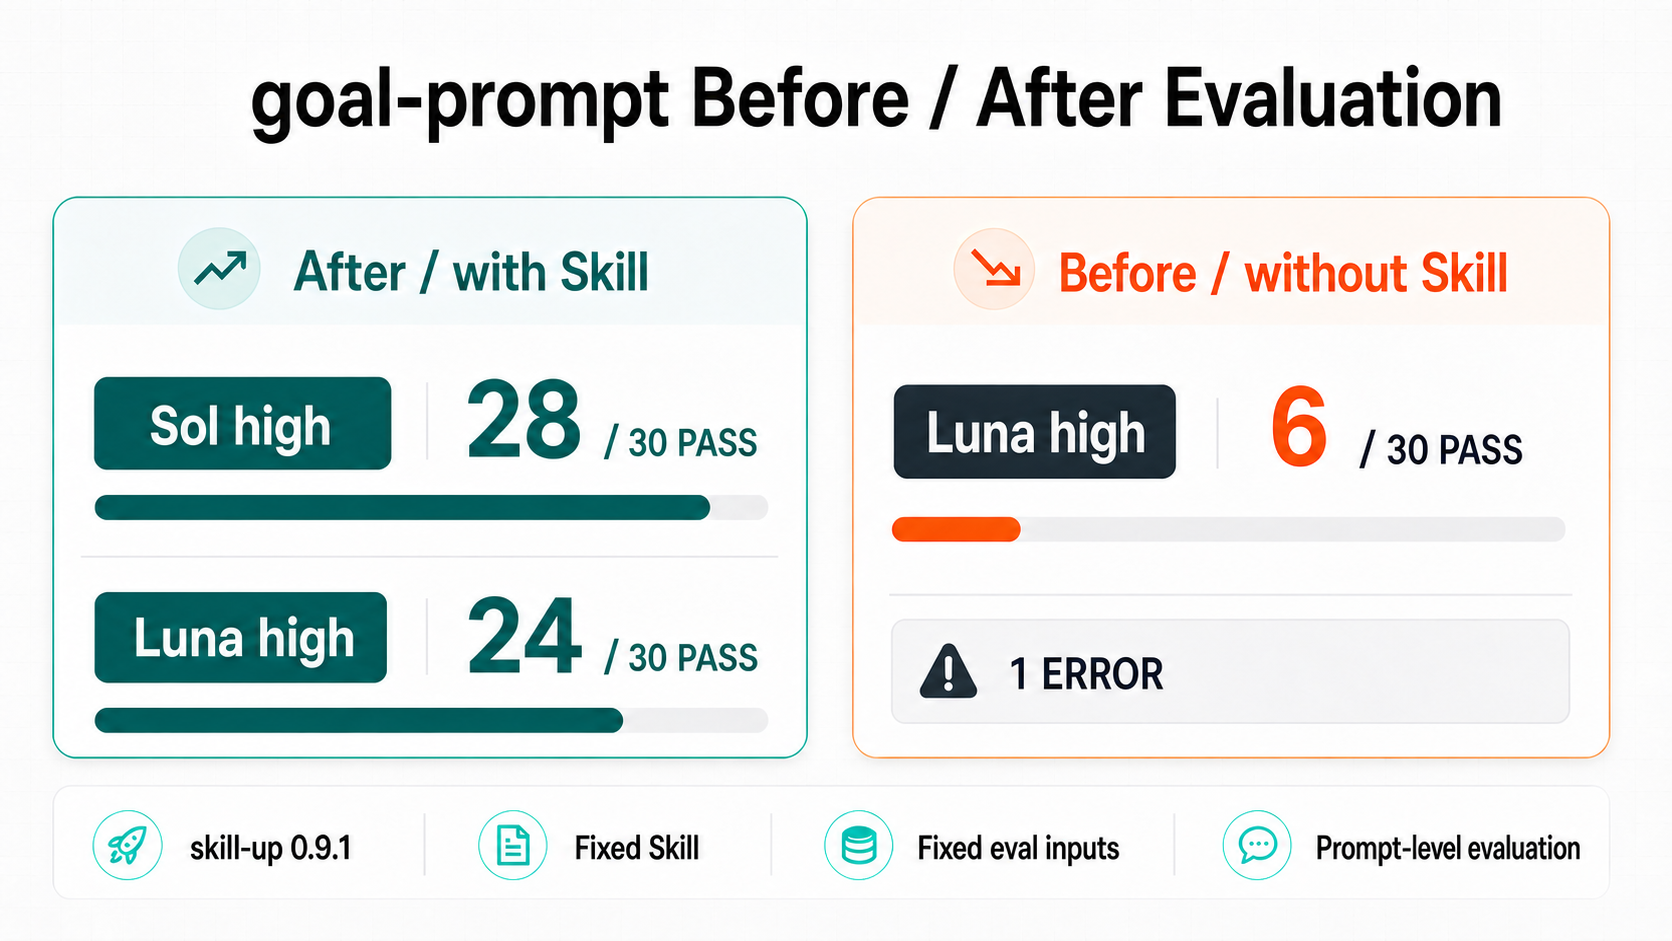
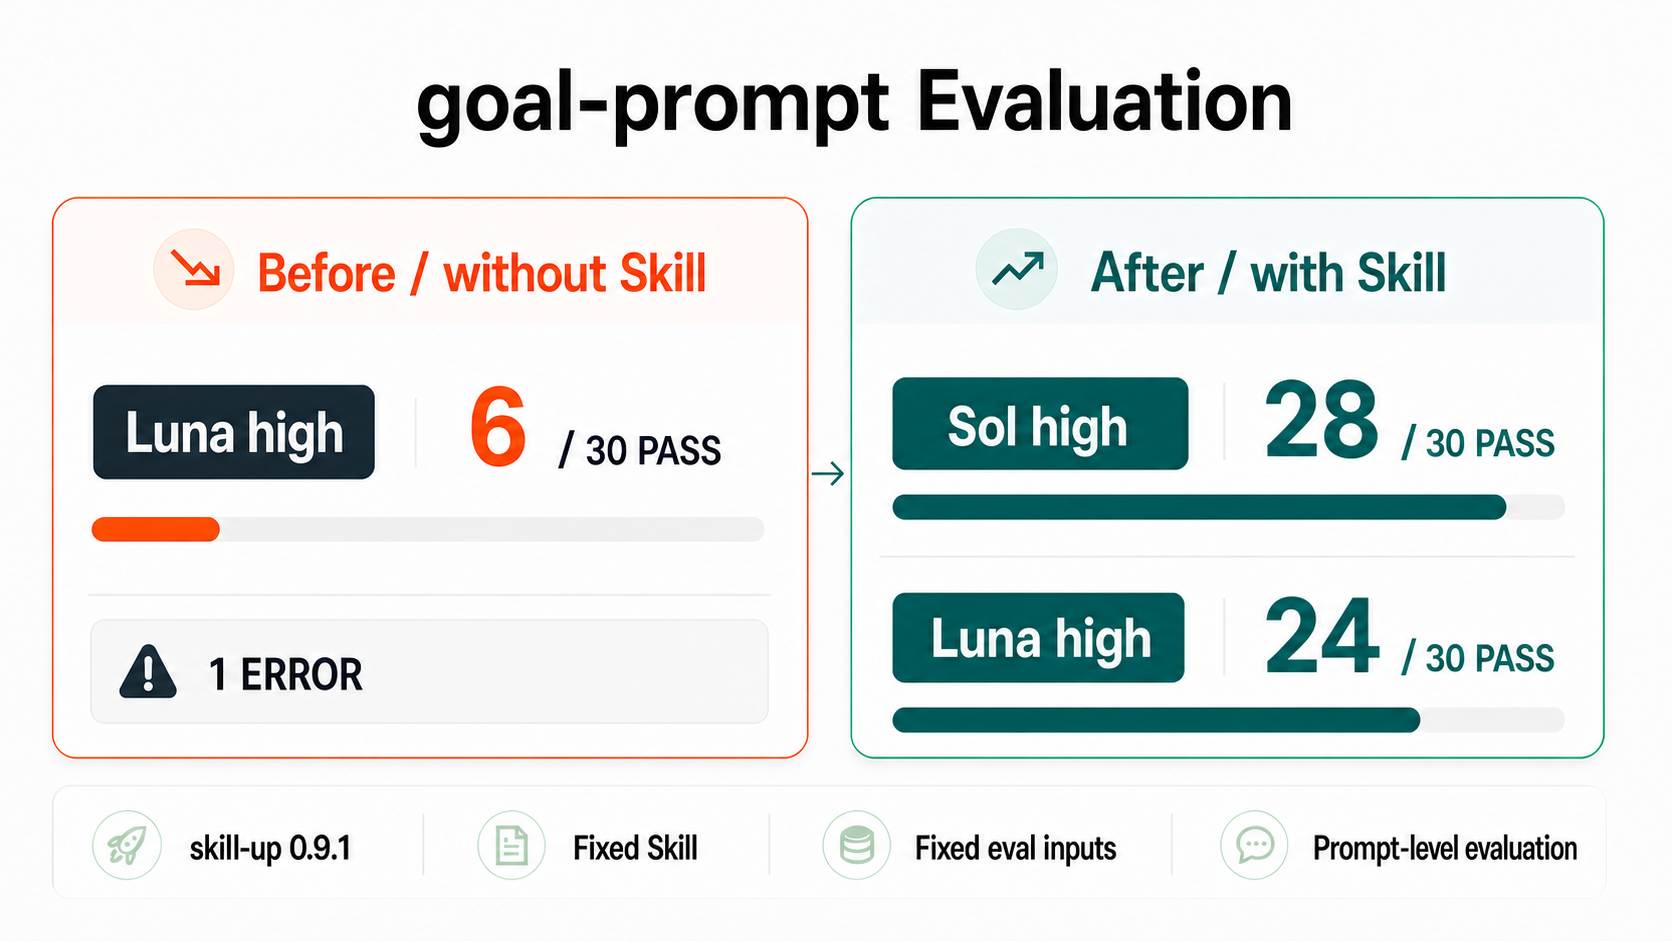
docs(readme): improve quick start and diagrams
- move installation and usage into a bilingual quick start
- keep Mermaid diagrams in portable syntax
- align bilingual evaluation graphics with before-to-after reading order

diff --git a/README.md b/README.md
@@ -28,6 +28,43 @@ Writing `/goal` by hand makes prompt size hard to judge:
 | Depend on chat history | Lessons disappear with the conversation, so the next run repeats the same mistakes | Reflect briefly after each loop and keep only high-value, reusable lessons |
 | Tie the workflow to one agent | Commands, paths, or instructions break when moving to another agent | Keep the instructions portable and adapt only the platform entrypoint |
 
+## Quick Start
+
+Install and choose a target:
+
+```bash
+npx skills add imbajin/goal-prompt
+```
+
+(Optional) Install globally for Codex and Claude Code:
+
+```bash
+npx skills add imbajin/goal-prompt -g -a codex -a claude-code
+```
+
+To update an existing installation in its original scope:
+
+```bash
+npx skills update goal-prompt
+```
+
+For an installation created with `-g`, run `npx skills update goal-prompt -g -y`.
+
+(Optional) Send this prompt to any Agent:
+
+```text
+Install goal-prompt by following https://github.com/imbajin/goal-prompt#install
+```
+
+Use it directly:
+
+```text
+# Codex / Claude Code
+/goal-prompt help me define a goal for implementing the authentication design in this repository
+```
+
+The agent can select the skill automatically when your request matches, or you can invoke it manually with `/goal-prompt`. Either way, it generates the prompt without executing it.
+
 ## Evaluation
 
 The latest version was evaluated on 30 isolated cases with `skill-up 0.9.1`. The paired run held the inputs and Codex `gpt-5.6-luna` high constant; the baseline also had one timeout ERROR. The final operation-target wording was added afterward and has focused contract coverage, not a new full A/B run.
@@ -49,14 +86,14 @@ goal-prompt aims for both efficiency and quality by keeping only the information
 ```mermaid
 flowchart LR
     A["User intent"] --> B{"Skip investigation or confirmation?"}
-    B -->|"Yes"| F["Keep unknowns visible and form the minimum execution contract"]
-    B -->|"No"| C["Read the repository and existing documents"]
+    B -->|Yes| F["Keep unknowns visible and form the minimum execution contract"]
+    B -->|No| C["Read the repository and existing documents"]
     C --> D["Disposable goal brief"]
     D --> E{"Confirm, revise, or delegate judgment"}
-    E -->|"Revise"| C
-    E -->|"Confirm or delegate"| F
+    E -->|Revise| C
+    E -->|Confirm or delegate| F
     F --> G["Output a verifiable goal prompt"]
-    G -. "Hand off to the execution agent" .-> H["Execute, validate, recover, and review"]
+    G -.->|Hand off to the execution agent| H["Execute, validate, recover, and review"]
 ```
 
 ## How it works
@@ -95,43 +132,6 @@ Create another file only when it has a distinct responsibility:
 - `lessons.md`: evidence-backed lessons worth reusing.
 
 Do not create a file that duplicates `state.md` or an existing document.
-
-## Install
-
-Install and choose a target:
-
-```bash
-npx skills add imbajin/goal-prompt
-```
-
-(Optional) Install globally for Codex and Claude Code:
-
-```bash
-npx skills add imbajin/goal-prompt -g -a codex -a claude-code
-```
-
-To update an existing installation in its original scope:
-
-```bash
-npx skills update goal-prompt
-```
-
-For an installation created with `-g`, run `npx skills update goal-prompt -g -y`.
-
-(Optional) Send this prompt to any Agent:
-
-```text
-Install goal-prompt by following https://github.com/imbajin/goal-prompt#install
-```
-
-## Use
-
-```text
-# Codex / Claude Code
-/goal-prompt help me define a goal for implementing the authentication design in this repository
-```
-
-The agent can select the skill automatically when your request matches, or you can invoke it manually with `/goal-prompt`. Either way, it generates the prompt without executing it.
 
 ## Compatibility
 

diff --git a/docs/README.zh-CN.md b/docs/README.zh-CN.md
@@ -27,6 +27,43 @@
 | 只依赖历史 context  | 踩坑/经验没有沉淀，下一轮重复试错 | 每轮简要反思，只记录高价值 + 可复用的内容 |
 | 写法绑定单一 Agent | 换到其他 Agent 后，调用方式/目录或指令对不上 | 指令/保持通用，只对平台入口做少量适配 |
 
+## 快速开始
+
+最简安装，运行后选择目标 Agent：
+
+```bash
+npx skills add imbajin/goal-prompt
+```
+
+（可选）全局安装到 Codex + Claude Code：
+
+```bash
+npx skills add imbajin/goal-prompt -g -a codex -a claude-code
+```
+
+已安装旧版本时，在原安装范围更新：
+
+```bash
+npx skills update goal-prompt
+```
+
+如果原来使用 `-g` 全局安装，运行 `npx skills update goal-prompt -g -y`
+
+（可选）把下面的 prompt 发给任意 Agent：
+
+```text
+请按照 https://github.com/imbajin/goal-prompt#install 安装 goal-prompt
+```
+
+直接使用：
+
+```text
+# Codex / Claude Code
+/goal-prompt 帮我给当前目录的认证模块定一个任务计划, 参考 XX 设计实现
+```
+
+需求沟通时，Agent 可自动调用这个 skill，你也可以用 `/goal-prompt` 手动调用。无论哪种方式，它只生成 prompt，不会直接执行
+
 ## 实测结果
 
 最新版本使用 `skill-up 0.9.1` 做了 30 个 case 的隔离回归。主对照统一使用 Codex `gpt-5.6-luna` high，同一批输入分别运行 with Skill 和 without Skill。with Skill 通过 24/30，without Skill 通过 6/30，后者另有 1 个超时 ERROR。最终补充的操作目标边界已做定向契约覆盖，但没有重新执行完整 A/B。
@@ -48,14 +85,14 @@
 ```mermaid
 flowchart LR
     A["用户意图"] --> B{"明确跳过调查或确认？"}
-    B -->|"是"| F["保留未知项，形成最小执行契约"]
-    B -->|"否"| C["调查仓库与已有文档"]
+    B -->|是| F["保留未知项，形成最小执行契约"]
+    B -->|否| C["调查仓库与已有文档"]
     C --> D["一次性目标摘要"]
     D --> E{"确认、修改或委托判断"}
-    E -->|"修改"| C
-    E -->|"确认或委托"| F
+    E -->|修改| C
+    E -->|确认或委托| F
     F --> G["输出可验证的 goal prompt"]
-    G -. "交给执行 Agent" .-> H["执行、验证、恢复与复审"]
+    G -.->|交给执行 Agent| H["执行、验证、恢复与复审"]
 ```
 
 ## 工作方式
@@ -94,43 +131,6 @@ flowchart LR
 - `lessons.md`：保存有证据且值得复用的经验
 
 如果新增文件会重复 `state.md` 或已有文档，就不要创建
-
-## 安装
-
-最简安装，运行后选择目标 Agent：
-
-```bash
-npx skills add imbajin/goal-prompt
-```
-
-（可选）全局安装到 Codex + Claude Code：
-
-```bash
-npx skills add imbajin/goal-prompt -g -a codex -a claude-code
-```
-
-已安装旧版本时，在原安装范围更新：
-
-```bash
-npx skills update goal-prompt
-```
-
-如果原来使用 `-g` 全局安装，运行 `npx skills update goal-prompt -g -y`
-
-（可选）把下面的 prompt 发给任意 Agent：
-
-```text
-请按照 https://github.com/imbajin/goal-prompt#install 安装 goal-prompt
-```
-
-## 使用
-
-```text
-# Codex / Claude Code
-/goal-prompt 帮我给当前目录的认证模块定一个任务计划, 参考 XX 设计实现
-```
-
-需求沟通时，Agent 可自动调用这个 skill，你也可以用 `/goal-prompt` 手动调用。无论哪种方式，它只生成 prompt，不会直接执行
 
 ## 兼容说明
 
